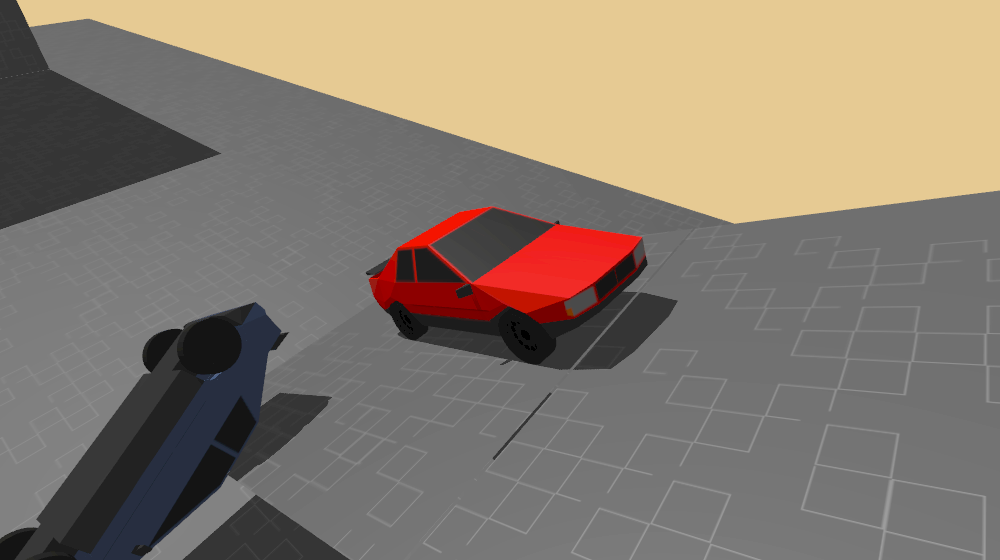
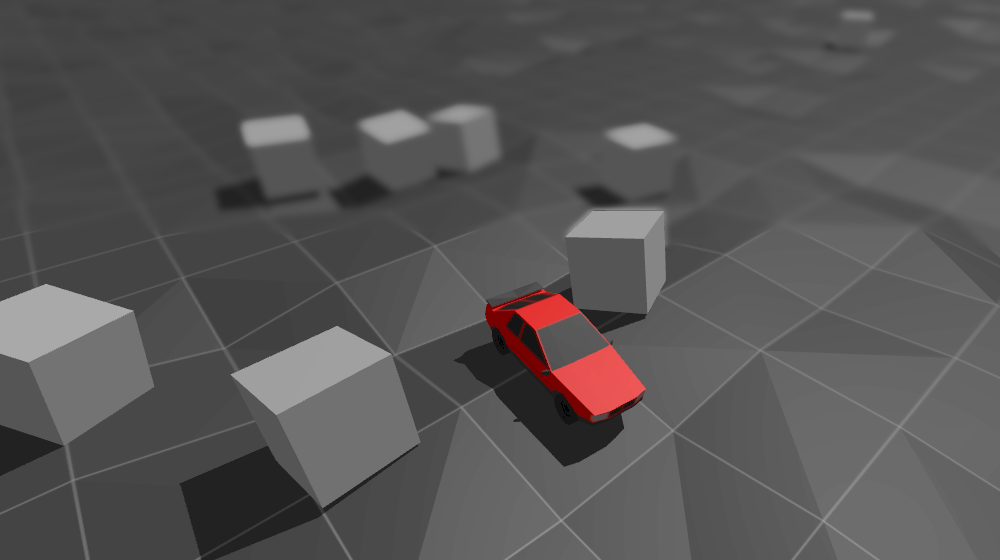
update README and screenshots

diff --git a/README.md b/README.md
@@ -2,7 +2,7 @@
 
 ![](https://github.com/vv1141/3d_engine_demo/blob/master/screenshots/demo.gif)
 
-3D Engine Demo is a custom 3D physics and graphics engine with a simple testbed attached. It is mostly written as a side effect of learning about techniques to simulate physics for game development purposes, and as such is neither a finished library nor optimised for performance.
+3D Engine Demo is a custom 3D physics and graphics engine with a simple testbed attached. It is mostly written as a side effect of learning graphics programming and techniques to simulate physics for game development purposes, and as such is neither a finished library nor optimised for performance.
 
 ## Features
 
@@ -22,6 +22,7 @@
 * Cascaded shadow maps
 * Multisample anti-aliasing
 * Gamma correction
+* Depth of field
 
 ## Pre-built binaries
 
@@ -61,4 +62,3 @@ cd bin
 ![](https://github.com/vv1141/3d_engine_demo/blob/master/screenshots/00.png)
 ![](https://github.com/vv1141/3d_engine_demo/blob/master/screenshots/01.png)
 ![](https://github.com/vv1141/3d_engine_demo/blob/master/screenshots/02.png)
-![](https://github.com/vv1141/3d_engine_demo/blob/master/screenshots/03.png)
